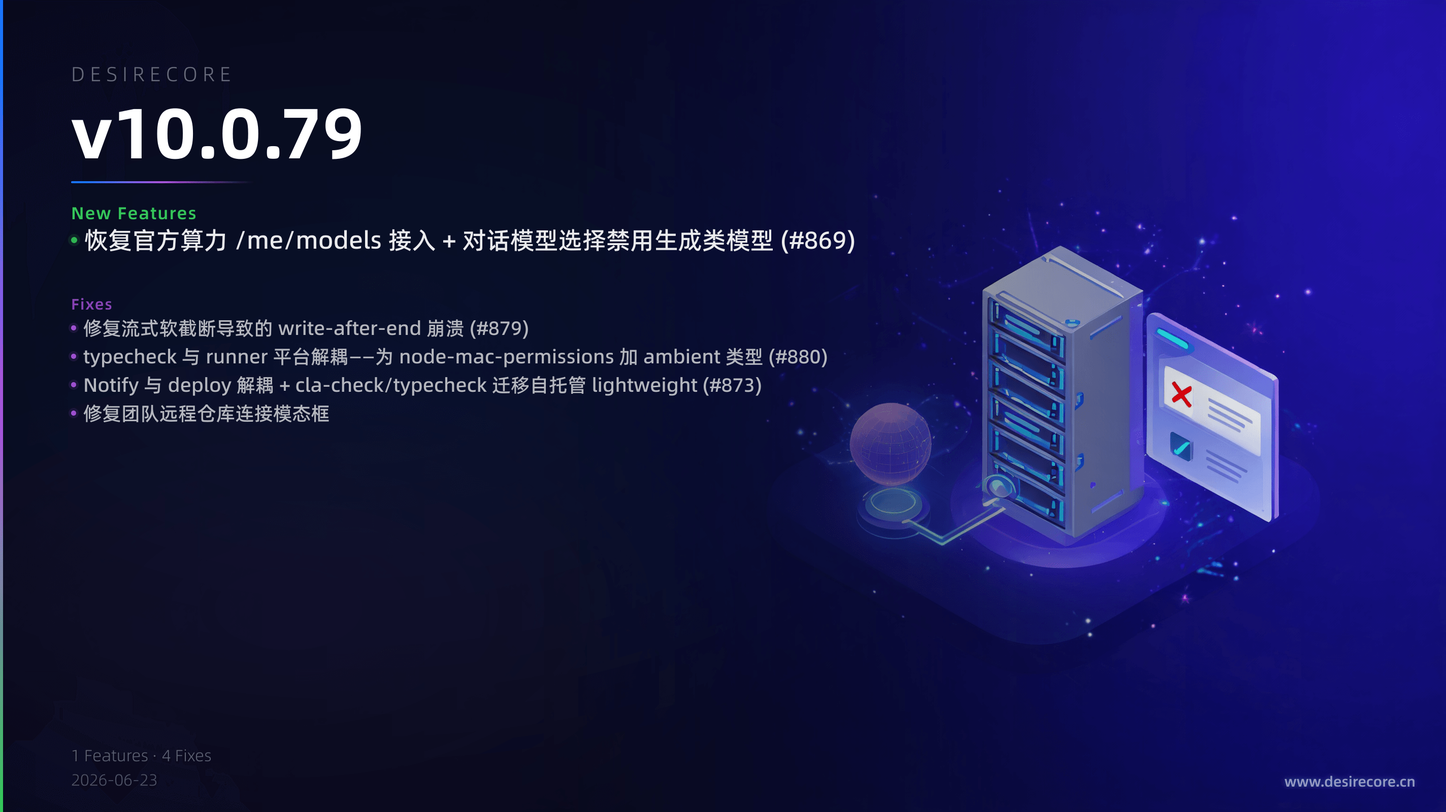
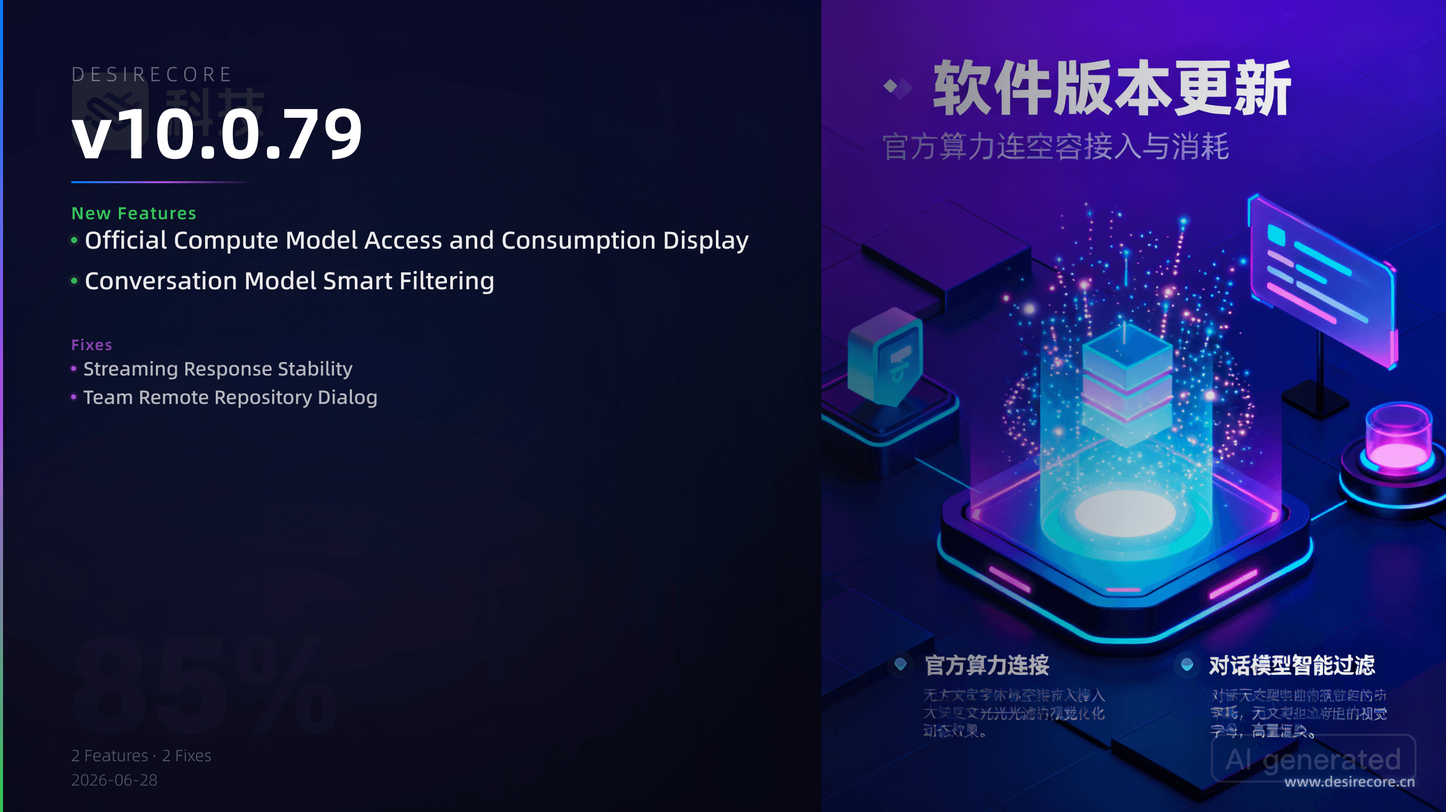
docs: update changelog for v10.0.79

diff --git a/i18n/en/docusaurus-plugin-content-docs/current/05-more/10-changelog/v10.0.79.md b/i18n/en/docusaurus-plugin-content-docs/current/05-more/10-changelog/v10.0.79.md
@@ -5,14 +5,14 @@ sidebar_position: 21
 
 # DesireCore v10.0.79
 
-**Release Date**: 2026-06-27
+**Release Date**: 2026-06-28
 
 ![v10.0.79 更新概览](/img/changelog/v10.0.79-en.png)
 
 ## New Features
-- **Official Compute Model Upgrade**: A comprehensive consumption multiplier badge relative to the default model has been added to the model list. When there are too many model capability tags, they automatically collapse, making cost comparison and model capabilities clear at a glance.
-- **Smart Filtering for Conversation Models**: Image and video generation models are automatically disabled and greyed out in the conversation model selector. Hovering over them shows a tooltip explaining why they are unavailable, preventing accidental selection that could cause conversation errors.
+- **Official Compute Model Access and Consumption Display**: Restored access to official compute models. The model selector now shows a comprehensive consumption multiplier badge and unit price details compared to the default model, with capability tags automatically collapsing when there are too many.
+- **Conversation Model Smart Filtering**: In the conversation model selection list and resource management panel, image/video generation models are now automatically disabled with a prompt to prevent conversation issues caused by accidental selection.
 
 ## Fixes
-- Fixed an issue where upstream large model streaming responses closed the connection prematurely without sending an end marker, causing the application process to crash.
-- Fixed an issue where the background of the team remote repository connection dialog was displayed incorrectly and some fields were not translated.
+- **Streaming Response Stability**: Fixed an issue where streaming conversations through some compatible proxies could crash the app due to prematurely closed connections. Such truncations now correctly display an error prompt and automatically retry.
+- **Team Remote Repository Dialog**: Fixed the team remote repository connection dialog where the background displayed abnormally and some fields were untranslated, and refined the closing interaction experience.

diff --git a/docs/05-more/10-changelog/v10.0.79.md b/docs/05-more/10-changelog/v10.0.79.md
@@ -5,14 +5,14 @@ sidebar_position: 21
 
 # DesireCore v10.0.79
 
-**发布日期**: 2026-06-27
+**发布日期**: 2026-06-28
 
 ![v10.0.79 更新概览](/img/changelog/v10.0.79.png)
 
 ## 新功能
-- **官方算力模型升级**：模型列表新增相对默认模型的综合消耗倍率徽章，模型能力标签过多时自动折叠，让成本对比和模型能力一目了然。
-- **对话模型智能过滤**：图像与视频生成类模型在对话模型选择器中自动禁用并置灰，鼠标悬停时提示不可选原因，避免误选导致对话异常。
+- **官方算力模型接入与消耗展示**：恢复官方算力模型接入，模型选择器现在可展示与默认模型对比的综合消耗倍率徽章和单价详情，能力标签过多时自动折叠。
+- **对话模型智能过滤**：在对话模型选择列表和资源管理面板中，图像/视频生成类模型将被自动禁用并给出提示，避免因误选导致对话异常。
 
 ## 修复
-- 修复上游大模型流式回复在未发送结束标记时提前关闭连接，导致应用进程崩溃的问题。
-- 修复团队远程仓库连接弹窗背景显示异常和部分字段未翻译的问题。
+- **流式响应稳定性**：修复了部分兼容代理流式对话因提前关闭连接导致应用崩溃的问题，现在遇到此类截断会正确提示错误并自动重试。
+- **团队远程仓库弹窗**：修复了团队远程仓库连接弹窗背景显示异常、部分字段未翻译的问题，并完善了关闭交互体验。
